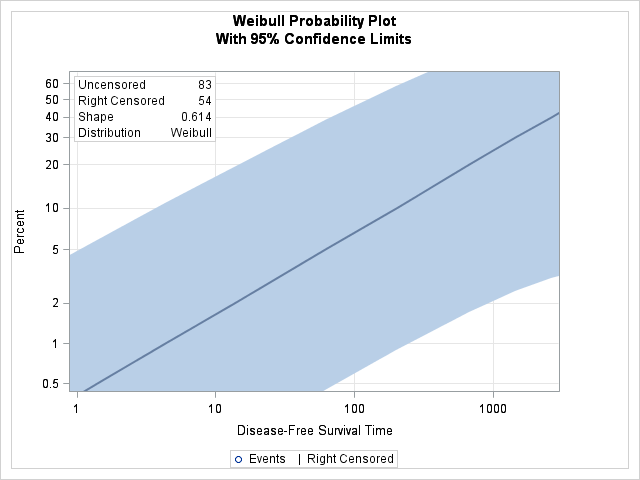
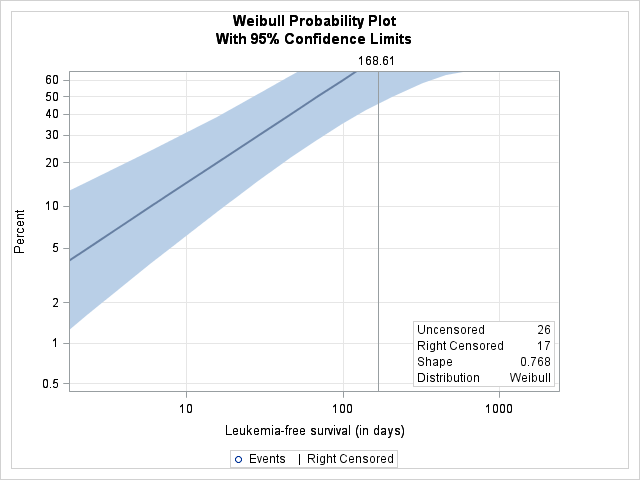
varia

diff --git a/reports/25-bmt-probplot.html b/reports/25-bmt-probplot.html
@@ -1648,29 +1648,25 @@ var _ie64 = _info.indexOf("x64") > 0
 <colgroup>
 <col>
 <col>
+<col>
+<col>
 </colgroup>
 <thead>
 <tr>
 <th class="r header" scope="col">Obs</th>
-<th class="l header" scope="col">group</th>
-<th class="r header" scope="col">xb</th>
+<th class="r header" scope="col">allo</th>
+<th class="r header" scope="col">hodgkins</th>
+<th class="r header" scope="col">kscore</th>
+<th class="r header" scope="col">wtime</th>
 </tr>
 </thead>
 <tbody>
 <tr>
 <th class="r rowheader" scope="row">1</th>
-<td class="l data">AML-High Risk</td>
-<td class="r data">2</td>
-</tr>
-<tr>
-<th class="r rowheader" scope="row">2</th>
-<td class="l data">ALL</td>
-<td class="r data">2</td>
-</tr>
-<tr>
-<th class="r rowheader" scope="row">3</th>
-<td class="l data">AML-Low Risk</td>
-<td class="r data">2</td>
+<td class="r data">1</td>
+<td class="r data">0</td>
+<td class="r data">50</td>
+<td class="r data">10</td>
 </tr>
 </tbody>
 </table>
@@ -1709,13 +1705,13 @@ var _ie64 = _info.indexOf("x64") > 0
 </tr>
 <tr>
 <th class="l rowheader" scope="row">Dependent Variable</th>
-<td class="r data">Log(T)</td>
-<td class="l data">Disease-Free Survival Time</td>
+<td class="r data">Log(time)</td>
+<td class="l data">Leukemia-free survival (in days)</td>
 </tr>
 <tr>
 <th class="l rowheader" scope="row">Censoring Variable</th>
-<td class="r data">Status</td>
-<td class="l data">Event Indictor: 1=Event 0=Censored</td>
+<td class="r data">status</td>
+<td class="l data">Status: 1=dead or relapsed , 0= otherwise</td>
 </tr>
 <tr>
 <th class="l rowheader" scope="row">Censoring Value(s)</th>
@@ -1724,17 +1720,17 @@ var _ie64 = _info.indexOf("x64") > 0
 </tr>
 <tr>
 <th class="l rowheader" scope="row">Number of Observations</th>
-<td class="r data">137</td>
+<td class="r data">43</td>
 <td class="l data">&nbsp;</td>
 </tr>
 <tr>
 <th class="l rowheader" scope="row">Noncensored Values</th>
-<td class="r data">83</td>
+<td class="r data">26</td>
 <td class="l data">&nbsp;</td>
 </tr>
 <tr>
 <th class="l rowheader" scope="row">Right Censored Values</th>
-<td class="r data">54</td>
+<td class="r data">17</td>
 <td class="l data">&nbsp;</td>
 </tr>
 <tr>
@@ -1749,7 +1745,7 @@ var _ie64 = _info.indexOf("x64") > 0
 </tr>
 <tr>
 <th class="l rowheader" scope="row">Number of Parameters</th>
-<td class="r data">5</td>
+<td class="r data">6</td>
 <td class="l data">&nbsp;</td>
 </tr>
 <tr>
@@ -1759,7 +1755,7 @@ var _ie64 = _info.indexOf("x64") > 0
 </tr>
 <tr>
 <th class="l rowheader" scope="row">Log Likelihood</th>
-<td class="r data" nowrap>-226.4283634</td>
+<td class="r data" nowrap>-61.87478404</td>
 <td class="l data">&nbsp;</td>
 </tr>
 </tbody>
@@ -1778,11 +1774,11 @@ var _ie64 = _info.indexOf("x64") > 0
 <tbody>
 <tr>
 <th class="l rowheader" scope="row">Number of Observations Read</th>
-<td class="r data">137</td>
+<td class="r data">43</td>
 </tr>
 <tr>
 <th class="l rowheader" scope="row">Number of Observations Used</th>
-<td class="r data">137</td>
+<td class="r data">43</td>
 </tr>
 </tbody>
 </table>
@@ -1810,9 +1806,14 @@ var _ie64 = _info.indexOf("x64") > 0
 </thead>
 <tbody>
 <tr>
-<th class="l rowheader" scope="row">Group</th>
-<td class="r data">3</td>
-<td class="l data">ALL AML-High Risk AML-Low Risk</td>
+<th class="l rowheader" scope="row">allo</th>
+<td class="r data">2</td>
+<td class="l data">0 1</td>
+</tr>
+<tr>
+<th class="l rowheader" scope="row">hodgkins</th>
+<td class="r data">2</td>
+<td class="l data">0 1</td>
 </tr>
 </tbody>
 </table>
@@ -1835,19 +1836,19 @@ var _ie64 = _info.indexOf("x64") > 0
 <tbody>
 <tr>
 <td class="l data">-2 Log Likelihood</td>
-<td class="r data">452.857</td>
+<td class="r data">123.750</td>
 </tr>
 <tr>
 <td class="l data">AIC (smaller is better)</td>
-<td class="r data">462.857</td>
+<td class="r data">135.750</td>
 </tr>
 <tr>
 <td class="l data">AICC (smaller is better)</td>
-<td class="r data">463.315</td>
+<td class="r data">138.083</td>
 </tr>
 <tr>
 <td class="l data">BIC (smaller is better)</td>
-<td class="r data">477.457</td>
+<td class="r data">146.317</td>
 </tr>
 </tbody>
 </table>
@@ -1870,19 +1871,19 @@ var _ie64 = _info.indexOf("x64") > 0
 <tbody>
 <tr>
 <td class="l data">-2 Log Likelihood</td>
-<td class="r data">1301.032</td>
+<td class="r data">336.951</td>
 </tr>
 <tr>
 <td class="l data">Weibull AIC (smaller is better)</td>
-<td class="r data">1311.032</td>
+<td class="r data">348.951</td>
 </tr>
 <tr>
 <td class="l data">Weibull AICC (smaller is better)</td>
-<td class="r data">1311.490</td>
+<td class="r data">351.285</td>
 </tr>
 <tr>
 <td class="l data">Weibull BIC (smaller is better)</td>
-<td class="r data">1325.632</td>
+<td class="r data">359.519</td>
 </tr>
 </tbody>
 </table>
@@ -1930,16 +1931,28 @@ var _ie64 = _info.indexOf("x64") > 0
 </thead>
 <tbody>
 <tr>
-<th class="l rowheader" scope="row">Group</th>
-<td class="r data">2</td>
-<td class="r data">1.4006</td>
-<td class="r data">0.4964</td>
+<th class="l rowheader" scope="row">allo</th>
+<td class="r data">1</td>
+<td class="r data">0.3016</td>
+<td class="r data">0.5829</td>
 </tr>
 <tr>
-<th class="l rowheader" scope="row">xb</th>
+<th class="l rowheader" scope="row">hodgkins</th>
 <td class="r data">1</td>
-<td class="r data">0.1983</td>
-<td class="r data">0.6561</td>
+<td class="r data">3.5452</td>
+<td class="r data">0.0597</td>
+</tr>
+<tr>
+<th class="l rowheader" scope="row">kscore</th>
+<td class="r data">1</td>
+<td class="r data">40.8204</td>
+<td class="r data">&lt;.0001</td>
+</tr>
+<tr>
+<th class="l rowheader" scope="row">wtime</th>
+<td class="r data">1</td>
+<td class="r data">1.1314</td>
+<td class="r data">0.2875</td>
 </tr>
 </tbody>
 </table>
@@ -1983,38 +1996,27 @@ var _ie64 = _info.indexOf("x64") > 0
 <th class="l rowheader" scope="row">Intercept</th>
 <th class="l data">&nbsp;</th>
 <td class="r data">1</td>
-<td class="r data">7.2485</td>
-<td class="r data">1.9306</td>
-<td class="r data">3.4646</td>
-<td class="r data">11.0324</td>
-<td class="r data">14.10</td>
-<td class="r data">0.0002</td>
+<td class="r data" nowrap>-0.5573</td>
+<td class="r data">1.1052</td>
+<td class="r data" nowrap>-2.7235</td>
+<td class="r data">1.6090</td>
+<td class="r data">0.25</td>
+<td class="r data">0.6141</td>
 </tr>
 <tr>
-<th class="l rowheader" scope="row">Group</th>
-<th class="l data">ALL</th>
+<th class="l rowheader" scope="row">allo</th>
+<th class="l data">0</th>
 <td class="r data">1</td>
-<td class="r data" nowrap>-1.9897</td>
-<td class="r data">2.0118</td>
-<td class="r data" nowrap>-5.9327</td>
-<td class="r data">1.9533</td>
-<td class="r data">0.98</td>
-<td class="r data">0.3227</td>
+<td class="r data" nowrap>-0.3212</td>
+<td class="r data">0.5849</td>
+<td class="r data" nowrap>-1.4677</td>
+<td class="r data">0.8252</td>
+<td class="r data">0.30</td>
+<td class="r data">0.5829</td>
 </tr>
 <tr>
-<th class="l rowheader" scope="row">Group</th>
-<th class="l data">AML-High Risk</th>
-<td class="r data">1</td>
-<td class="r data" nowrap>-3.3045</td>
-<td class="r data">3.9255</td>
-<td class="r data" nowrap>-10.9984</td>
-<td class="r data">4.3894</td>
-<td class="r data">0.71</td>
-<td class="r data">0.3999</td>
-</tr>
-<tr>
-<th class="l rowheader" scope="row">Group</th>
-<th class="l data">AML-Low Risk</th>
+<th class="l rowheader" scope="row">allo</th>
+<th class="l data">1</th>
 <td class="r data">0</td>
 <td class="r data">0.0000</td>
 <td class="r data">.</td>
@@ -2024,24 +2026,57 @@ var _ie64 = _info.indexOf("x64") > 0
 <td class="r data">.</td>
 </tr>
 <tr>
-<th class="l rowheader" scope="row">xb</th>
+<th class="l rowheader" scope="row">hodgkins</th>
+<th class="l data">0</th>
+<td class="r data">1</td>
+<td class="r data">1.2400</td>
+<td class="r data">0.6586</td>
+<td class="r data" nowrap>-0.0508</td>
+<td class="r data">2.5307</td>
+<td class="r data">3.55</td>
+<td class="r data">0.0597</td>
+</tr>
+<tr>
+<th class="l rowheader" scope="row">hodgkins</th>
+<th class="l data">1</th>
+<td class="r data">0</td>
+<td class="r data">0.0000</td>
+<td class="r data">.</td>
+<td class="r data">.</td>
+<td class="r data">.</td>
+<td class="r data">.</td>
+<td class="r data">.</td>
+</tr>
+<tr>
+<th class="l rowheader" scope="row">kscore</th>
 <th class="l data">&nbsp;</th>
 <td class="r data">1</td>
-<td class="r data">0.8589</td>
-<td class="r data">1.9290</td>
-<td class="r data" nowrap>-2.9219</td>
-<td class="r data">4.6398</td>
-<td class="r data">0.20</td>
-<td class="r data">0.6561</td>
+<td class="r data">0.0784</td>
+<td class="r data">0.0123</td>
+<td class="r data">0.0543</td>
+<td class="r data">0.1024</td>
+<td class="r data">40.82</td>
+<td class="r data">&lt;.0001</td>
+</tr>
+<tr>
+<th class="l rowheader" scope="row">wtime</th>
+<th class="l data">&nbsp;</th>
+<td class="r data">1</td>
+<td class="r data">0.0101</td>
+<td class="r data">0.0095</td>
+<td class="r data" nowrap>-0.0085</td>
+<td class="r data">0.0287</td>
+<td class="r data">1.13</td>
+<td class="r data">0.2875</td>
 </tr>
 <tr>
 <th class="l rowheader" scope="row">Scale</th>
 <th class="l data">&nbsp;</th>
 <td class="r data">1</td>
-<td class="r data">1.6295</td>
-<td class="r data">0.1521</td>
-<td class="r data">1.3570</td>
-<td class="r data">1.9567</td>
+<td class="r data">1.3019</td>
+<td class="r data">0.2083</td>
+<td class="r data">0.9515</td>
+<td class="r data">1.7813</td>
 <td class="r data">&nbsp;</td>
 <td class="r data">&nbsp;</td>
 </tr>
@@ -2049,10 +2084,10 @@ var _ie64 = _info.indexOf("x64") > 0
 <th class="l rowheader" scope="row">Weibull Shape</th>
 <th class="l data">&nbsp;</th>
 <td class="r data">1</td>
-<td class="r data">0.6137</td>
-<td class="r data">0.0573</td>
-<td class="r data">0.5111</td>
-<td class="r data">0.7369</td>
+<td class="r data">0.7681</td>
+<td class="r data">0.1229</td>
+<td class="r data">0.5614</td>
+<td class="r data">1.0510</td>
 <td class="r data">&nbsp;</td>
 <td class="r data">&nbsp;</td>
 </tr>
